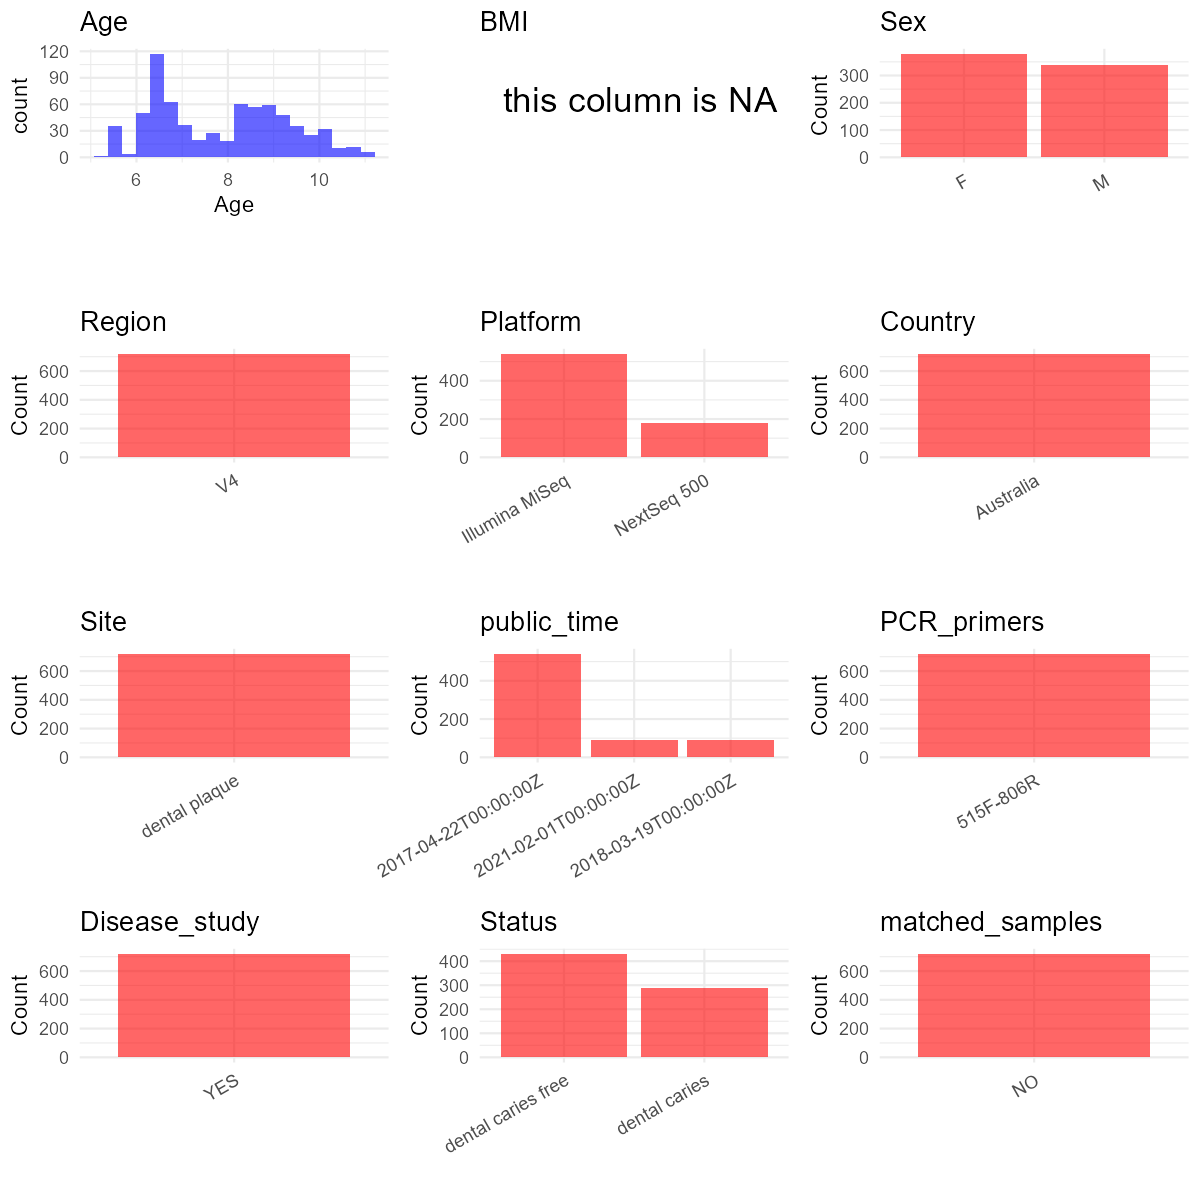
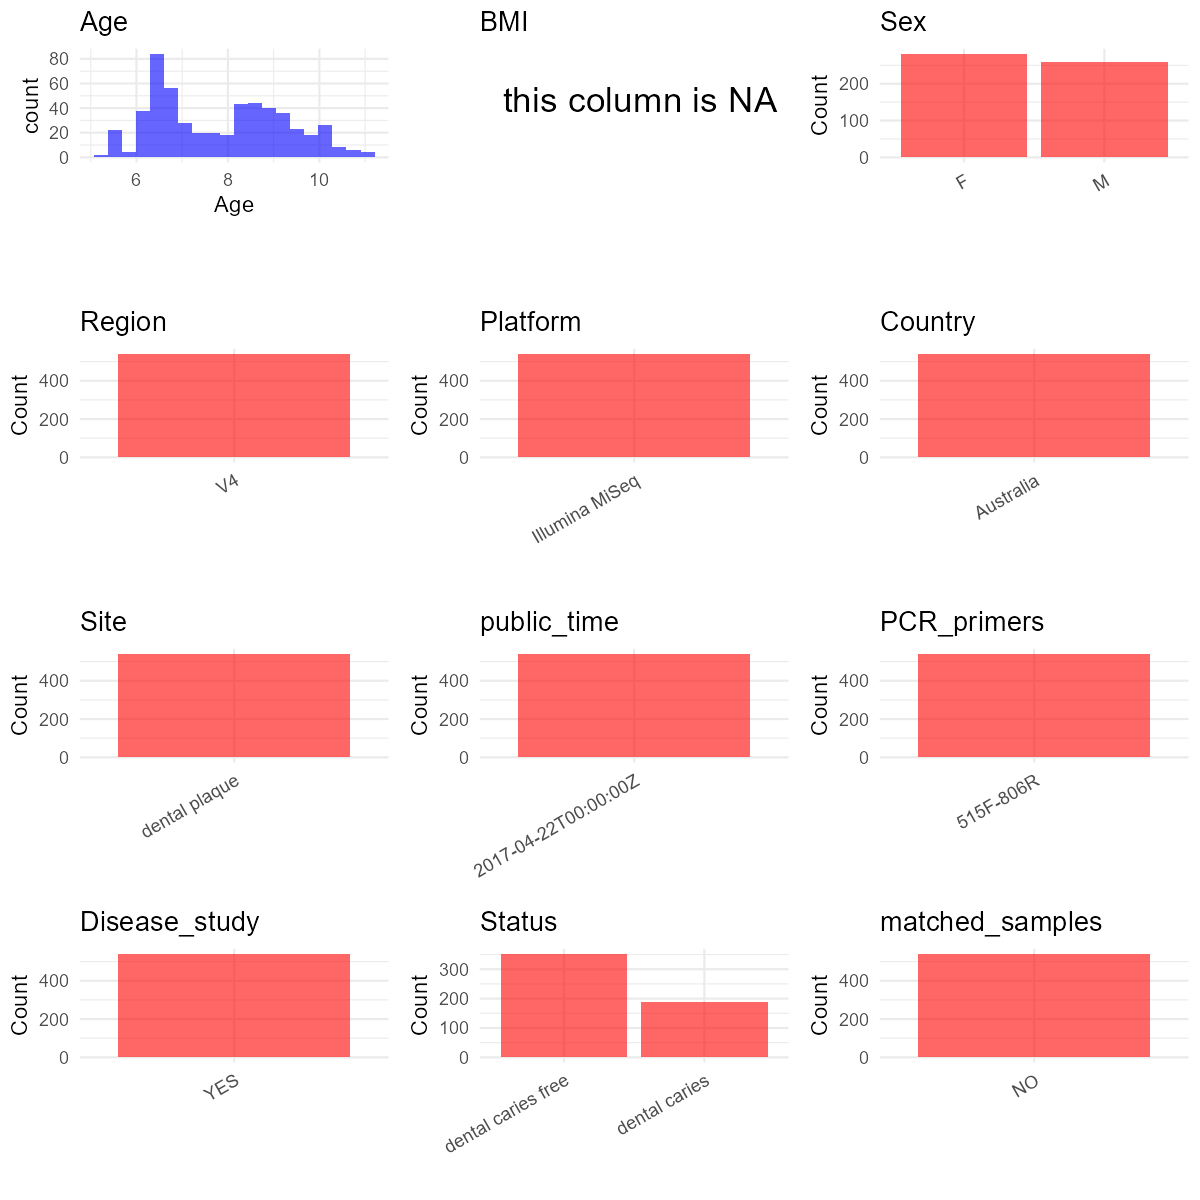
zyc_metadata_3

diff --git a/data/projects/PRJNA383868/metadata_curation.md b/data/projects/PRJNA383868/metadata_curation.md
@@ -15,55 +15,62 @@ project.
     initial_meta <- read.csv("SraRunTable.csv", header = TRUE) 
     head(initial_meta)
 
-    ##          Run Assay.Type AvgSpotLen    Bases  BioProject    BioSample                       BioSampleModel    Bytes               Center.Name
-    ## 1 SRR5467622   AMPLICON        502 12991258 PRJNA383868 SAMN06818328 MIMS.me,MIGS/MIMS/MIMARKS.human-oral  8392295 J. CRAIG VENTER INSTITUTE
-    ## 2 SRR5467623   AMPLICON        502 21643228 PRJNA383868 SAMN06818327 MIMS.me,MIGS/MIMS/MIMARKS.human-oral 13831072 J. CRAIG VENTER INSTITUTE
-    ## 3 SRR5467624   AMPLICON        502 21135706 PRJNA383868 SAMN06818326 MIMS.me,MIGS/MIMS/MIMARKS.human-oral 13491196 J. CRAIG VENTER INSTITUTE
-    ## 4 SRR5467625   AMPLICON        502  7511928 PRJNA383868 SAMN06818325 MIMS.me,MIGS/MIMS/MIMARKS.human-oral  4718731 J. CRAIG VENTER INSTITUTE
-    ## 5 SRR5467626   AMPLICON        502  6295582 PRJNA383868 SAMN06818324 MIMS.me,MIGS/MIMS/MIMARKS.human-oral  3970507 J. CRAIG VENTER INSTITUTE
-    ## 6 SRR5467627   AMPLICON        502 15582582 PRJNA383868 SAMN06818323 MIMS.me,MIGS/MIMS/MIMARKS.human-oral 10037418 J. CRAIG VENTER INSTITUTE
-    ##   chem_administration Collection_Date Consent DATASTORE.filetype DATASTORE.provider                     DATASTORE.region     env_biome
-    ## 1      not applicable      2014-10-27  public   fastq,run.zq,sra         gs,ncbi,s3 gs.us-east1,ncbi.public,s3.us-east-1 ENVO:01000418
-    ## 2      not applicable      2014-11-24  public   fastq,run.zq,sra         gs,ncbi,s3 gs.us-east1,ncbi.public,s3.us-east-1 ENVO:01000418
-    ## 3      not applicable      2014-11-24  public   fastq,run.zq,sra         gs,ncbi,s3 gs.us-east1,ncbi.public,s3.us-east-1 ENVO:01000418
-    ## 4      not applicable      2014-06-25  public   fastq,run.zq,sra         gs,ncbi,s3 gs.us-east1,ncbi.public,s3.us-east-1 ENVO:01000418
-    ## 5      not applicable      2014-06-25  public   fastq,run.zq,sra         gs,ncbi,s3 gs.us-east1,ncbi.public,s3.us-east-1 ENVO:01000418
-    ## 6      not applicable      2014-12-17  public   fastq,run.zq,sra         gs,ncbi,s3 gs.us-east1,ncbi.public,s3.us-east-1 ENVO:01000418
-    ##     env_feature  env_material Experiment geo_loc_name_country geo_loc_name_country_continent                geo_loc_name  Host_Age
-    ## 1 ENVO:00002034 ENVO:01000156 SRX2752978            Australia                        Oceania Australia: Melbourne\\, VIC 78 months
-    ## 2 ENVO:00002034 ENVO:01000156 SRX2752979            Australia                        Oceania Australia: Melbourne\\, VIC 79 months
-    ## 3 ENVO:00002034 ENVO:01000156 SRX2752980            Australia                        Oceania Australia: Melbourne\\, VIC 79 months
-    ## 4 ENVO:00002034 ENVO:01000156 SRX2752981            Australia                        Oceania Australia: Melbourne\\, VIC 77 months
-    ## 5 ENVO:00002034 ENVO:01000156 SRX2752982            Australia                        Oceania Australia: Melbourne\\, VIC 77 months
-    ## 6 ENVO:00002034 ENVO:01000156 SRX2752983            Australia                        Oceania Australia: Melbourne\\, VIC 80 months
-    ##         Host_disease host_family_relationship         HOST host_sex host_subject_id host_tissue_sampled     Instrument isolation_source
-    ## 1      dental caries           sibling 2028.2 Homo sapiens   female          2028.1       dental plaque Illumina MiSeq            teeth
-    ## 2      dental caries           sibling 2026.1 Homo sapiens   female          2026.2       dental plaque Illumina MiSeq            teeth
-    ## 3      dental caries           sibling 2026.2 Homo sapiens   female          2026.1       dental plaque Illumina MiSeq            teeth
-    ## 4 dental caries free           sibling 2023.1 Homo sapiens     male          2023.2       dental plaque Illumina MiSeq            teeth
-    ## 5 dental caries free           sibling 2023.2 Homo sapiens     male          2023.1       dental plaque Illumina MiSeq            teeth
-    ## 6 dental caries free           sibling 2020.1 Homo sapiens     male          2020.2       dental plaque Illumina MiSeq            teeth
-    ##                   lat_lon   Library.Name LibraryLayout LibrarySelection LibrarySource nose_mouth_teeth_throat_disord              Organism
-    ## 1 37.793742 S 144.94921 E CAR_2028.1_RD1        PAIRED              PCR   METAGENOMIC                 not applicable human oral metagenome
-    ## 2 37.793742 S 144.94921 E CAR_2026.2_RD1        PAIRED              PCR   METAGENOMIC                          cleft human oral metagenome
-    ## 3 37.793742 S 144.94921 E CAR_2026.1_RD1        PAIRED              PCR   METAGENOMIC                 not applicable human oral metagenome
-    ## 4 37.793742 S 144.94921 E CAR_2023.2_RD1        PAIRED              PCR   METAGENOMIC                 not applicable human oral metagenome
-    ## 5 37.793742 S 144.94921 E CAR_2023.1_RD1        PAIRED              PCR   METAGENOMIC                 not applicable human oral metagenome
-    ## 6 37.793742 S 144.94921 E CAR_2020.2_RD1        PAIRED              PCR   METAGENOMIC                 not applicable human oral metagenome
-    ##   Platform          ReleaseDate samp_collect_device    samp_store_temp samp_vol_we_dna_ext Sample.Name SRA.Study          create_date
-    ## 1 ILLUMINA 2017-04-22T00:00:00Z          oral swabs -80 degree Celsius              750 uL  2028.1_RD1 SRP104798 2017-04-22T00:07:00Z
-    ## 2 ILLUMINA 2017-04-22T00:00:00Z          oral swabs -80 degree Celsius              750 uL  2026.2_RD1 SRP104798 2017-04-22T00:07:00Z
-    ## 3 ILLUMINA 2017-04-22T00:00:00Z          oral swabs -80 degree Celsius              750 uL  2026.1_RD1 SRP104798 2017-04-22T00:07:00Z
-    ## 4 ILLUMINA 2017-04-22T00:00:00Z          oral swabs -80 degree Celsius              750 uL  2023.2_RD1 SRP104798 2017-04-22T00:06:00Z
-    ## 5 ILLUMINA 2017-04-22T00:00:00Z          oral swabs -80 degree Celsius              750 uL  2023.1_RD1 SRP104798 2017-04-22T00:07:00Z
-    ## 6 ILLUMINA 2017-04-22T00:00:00Z          oral swabs -80 degree Celsius              750 uL  2020.2_RD1 SRP104798 2017-04-22T00:07:00Z
-    ##   version  host_body_site host_body_product misc_param source_material_id
-    ## 1       1 right dentition                                                
-    ## 2       1 right dentition                                                
-    ## 3       1 right dentition                                                
-    ## 4       1 right dentition                                                
-    ## 5       1 right dentition                                                
-    ## 6       1 right dentition
+    ##          Run Assay.Type AvgSpotLen    Bases  BioProject    BioSample                       BioSampleModel    Bytes
+    ## 1 SRR5467622   AMPLICON        502 12991258 PRJNA383868 SAMN06818328 MIMS.me,MIGS/MIMS/MIMARKS.human-oral  8392295
+    ## 2 SRR5467623   AMPLICON        502 21643228 PRJNA383868 SAMN06818327 MIMS.me,MIGS/MIMS/MIMARKS.human-oral 13831072
+    ## 3 SRR5467624   AMPLICON        502 21135706 PRJNA383868 SAMN06818326 MIMS.me,MIGS/MIMS/MIMARKS.human-oral 13491196
+    ## 4 SRR5467625   AMPLICON        502  7511928 PRJNA383868 SAMN06818325 MIMS.me,MIGS/MIMS/MIMARKS.human-oral  4718731
+    ## 5 SRR5467626   AMPLICON        502  6295582 PRJNA383868 SAMN06818324 MIMS.me,MIGS/MIMS/MIMARKS.human-oral  3970507
+    ## 6 SRR5467627   AMPLICON        502 15582582 PRJNA383868 SAMN06818323 MIMS.me,MIGS/MIMS/MIMARKS.human-oral 10037418
+    ##                 Center.Name chem_administration Collection_Date Consent DATASTORE.filetype DATASTORE.provider
+    ## 1 J. CRAIG VENTER INSTITUTE      not applicable      2014-10-27  public   fastq,run.zq,sra         gs,ncbi,s3
+    ## 2 J. CRAIG VENTER INSTITUTE      not applicable      2014-11-24  public   fastq,run.zq,sra         gs,ncbi,s3
+    ## 3 J. CRAIG VENTER INSTITUTE      not applicable      2014-11-24  public   fastq,run.zq,sra         gs,ncbi,s3
+    ## 4 J. CRAIG VENTER INSTITUTE      not applicable      2014-06-25  public   fastq,run.zq,sra         gs,ncbi,s3
+    ## 5 J. CRAIG VENTER INSTITUTE      not applicable      2014-06-25  public   fastq,run.zq,sra         gs,ncbi,s3
+    ## 6 J. CRAIG VENTER INSTITUTE      not applicable      2014-12-17  public   fastq,run.zq,sra         gs,ncbi,s3
+    ##                       DATASTORE.region     env_biome   env_feature  env_material Experiment geo_loc_name_country
+    ## 1 gs.us-east1,ncbi.public,s3.us-east-1 ENVO:01000418 ENVO:00002034 ENVO:01000156 SRX2752978            Australia
+    ## 2 gs.us-east1,ncbi.public,s3.us-east-1 ENVO:01000418 ENVO:00002034 ENVO:01000156 SRX2752979            Australia
+    ## 3 gs.us-east1,ncbi.public,s3.us-east-1 ENVO:01000418 ENVO:00002034 ENVO:01000156 SRX2752980            Australia
+    ## 4 gs.us-east1,ncbi.public,s3.us-east-1 ENVO:01000418 ENVO:00002034 ENVO:01000156 SRX2752981            Australia
+    ## 5 gs.us-east1,ncbi.public,s3.us-east-1 ENVO:01000418 ENVO:00002034 ENVO:01000156 SRX2752982            Australia
+    ## 6 gs.us-east1,ncbi.public,s3.us-east-1 ENVO:01000418 ENVO:00002034 ENVO:01000156 SRX2752983            Australia
+    ##   geo_loc_name_country_continent                geo_loc_name  Host_Age       Host_disease host_family_relationship
+    ## 1                        Oceania Australia: Melbourne\\, VIC 78 months      dental caries           sibling 2028.2
+    ## 2                        Oceania Australia: Melbourne\\, VIC 79 months      dental caries           sibling 2026.1
+    ## 3                        Oceania Australia: Melbourne\\, VIC 79 months      dental caries           sibling 2026.2
+    ## 4                        Oceania Australia: Melbourne\\, VIC 77 months dental caries free           sibling 2023.1
+    ## 5                        Oceania Australia: Melbourne\\, VIC 77 months dental caries free           sibling 2023.2
+    ## 6                        Oceania Australia: Melbourne\\, VIC 80 months dental caries free           sibling 2020.1
+    ##           HOST host_sex host_subject_id host_tissue_sampled     Instrument isolation_source                 lat_lon
+    ## 1 Homo sapiens   female          2028.1       dental plaque Illumina MiSeq            teeth 37.793742 S 144.94921 E
+    ## 2 Homo sapiens   female          2026.2       dental plaque Illumina MiSeq            teeth 37.793742 S 144.94921 E
+    ## 3 Homo sapiens   female          2026.1       dental plaque Illumina MiSeq            teeth 37.793742 S 144.94921 E
+    ## 4 Homo sapiens     male          2023.2       dental plaque Illumina MiSeq            teeth 37.793742 S 144.94921 E
+    ## 5 Homo sapiens     male          2023.1       dental plaque Illumina MiSeq            teeth 37.793742 S 144.94921 E
+    ## 6 Homo sapiens     male          2020.2       dental plaque Illumina MiSeq            teeth 37.793742 S 144.94921 E
+    ##     Library.Name LibraryLayout LibrarySelection LibrarySource nose_mouth_teeth_throat_disord              Organism
+    ## 1 CAR_2028.1_RD1        PAIRED              PCR   METAGENOMIC                 not applicable human oral metagenome
+    ## 2 CAR_2026.2_RD1        PAIRED              PCR   METAGENOMIC                          cleft human oral metagenome
+    ## 3 CAR_2026.1_RD1        PAIRED              PCR   METAGENOMIC                 not applicable human oral metagenome
+    ## 4 CAR_2023.2_RD1        PAIRED              PCR   METAGENOMIC                 not applicable human oral metagenome
+    ## 5 CAR_2023.1_RD1        PAIRED              PCR   METAGENOMIC                 not applicable human oral metagenome
+    ## 6 CAR_2020.2_RD1        PAIRED              PCR   METAGENOMIC                 not applicable human oral metagenome
+    ##   Platform          ReleaseDate samp_collect_device    samp_store_temp samp_vol_we_dna_ext Sample.Name SRA.Study
+    ## 1 ILLUMINA 2017-04-22T00:00:00Z          oral swabs -80 degree Celsius              750 uL  2028.1_RD1 SRP104798
+    ## 2 ILLUMINA 2017-04-22T00:00:00Z          oral swabs -80 degree Celsius              750 uL  2026.2_RD1 SRP104798
+    ## 3 ILLUMINA 2017-04-22T00:00:00Z          oral swabs -80 degree Celsius              750 uL  2026.1_RD1 SRP104798
+    ## 4 ILLUMINA 2017-04-22T00:00:00Z          oral swabs -80 degree Celsius              750 uL  2023.2_RD1 SRP104798
+    ## 5 ILLUMINA 2017-04-22T00:00:00Z          oral swabs -80 degree Celsius              750 uL  2023.1_RD1 SRP104798
+    ## 6 ILLUMINA 2017-04-22T00:00:00Z          oral swabs -80 degree Celsius              750 uL  2020.2_RD1 SRP104798
+    ##            create_date version  host_body_site host_body_product misc_param source_material_id
+    ## 1 2017-04-22T00:07:00Z       1 right dentition                                                
+    ## 2 2017-04-22T00:07:00Z       1 right dentition                                                
+    ## 3 2017-04-22T00:07:00Z       1 right dentition                                                
+    ## 4 2017-04-22T00:06:00Z       1 right dentition                                                
+    ## 5 2017-04-22T00:07:00Z       1 right dentition                                                
+    ## 6 2017-04-22T00:07:00Z       1 right dentition
 
 # Step 2: Create a Uniform Metadata Template
 
@@ -93,6 +100,7 @@ The uniform metadata should include the following columns:
 <!-- -->
 
     metadata <- data.frame(
+      assaytype = initial_meta$Assay.Type,
       BioProject = initial_meta$BioProject,
       Run = initial_meta$Run,
       sample_name = initial_meta$Library.Name,
@@ -114,7 +122,8 @@ The uniform metadata should include the following columns:
 Some information (e.g. PCR primers, study title, disease status) must be
 manually extracted from the publication and added to the metadata.
 
-     metadata <- metadata %>%
+    metadata <- metadata %>%filter(assaytype == "AMPLICON")
+    metadata <- metadata %>%
       mutate(Sex = recode(Sex, "female" = "F", "male" = "M"))
     metadata <- metadata %>%mutate(Age = as.numeric(sapply(str_split(Age, " "), function(x) head(x, 1))))%>%mutate(Age = Age/12)
 
@@ -124,30 +133,37 @@ manually extracted from the publication and added to the metadata.
 
     head(metadata)
 
-    ##    BioProject        Run    sample_name      Age BMI Sex Region       Platform   Country          Site          public_time matched_samples
-    ## 1 PRJNA383868 SRR5467622 CAR_2028.1_RD1 6.500000  NA   F     V4 Illumina MiSeq Australia dental plaque 2017-04-22T00:00:00Z              NO
-    ## 2 PRJNA383868 SRR5467623 CAR_2026.2_RD1 6.583333  NA   F     V4 Illumina MiSeq Australia dental plaque 2017-04-22T00:00:00Z              NO
-    ## 3 PRJNA383868 SRR5467624 CAR_2026.1_RD1 6.583333  NA   F     V4 Illumina MiSeq Australia dental plaque 2017-04-22T00:00:00Z              NO
-    ## 4 PRJNA383868 SRR5467625 CAR_2023.2_RD1 6.416667  NA   M     V4 Illumina MiSeq Australia dental plaque 2017-04-22T00:00:00Z              NO
-    ## 5 PRJNA383868 SRR5467626 CAR_2023.1_RD1 6.416667  NA   M     V4 Illumina MiSeq Australia dental plaque 2017-04-22T00:00:00Z              NO
-    ## 6 PRJNA383868 SRR5467627 CAR_2020.2_RD1 6.666667  NA   M     V4 Illumina MiSeq Australia dental plaque 2017-04-22T00:00:00Z              NO
-    ##               Status                                                             title Disease_study PCR_primers
-    ## 1      dental caries Host Genetic Control of the Oral Microbiome in Health and Disease           YES   515F-806R
-    ## 2      dental caries Host Genetic Control of the Oral Microbiome in Health and Disease           YES   515F-806R
-    ## 3      dental caries Host Genetic Control of the Oral Microbiome in Health and Disease           YES   515F-806R
-    ## 4 dental caries free Host Genetic Control of the Oral Microbiome in Health and Disease           YES   515F-806R
-    ## 5 dental caries free Host Genetic Control of the Oral Microbiome in Health and Disease           YES   515F-806R
-    ## 6 dental caries free Host Genetic Control of the Oral Microbiome in Health and Disease           YES   515F-806R
+    ##   assaytype  BioProject        Run    sample_name      Age BMI Sex Region       Platform   Country          Site
+    ## 1  AMPLICON PRJNA383868 SRR5467622 CAR_2028.1_RD1 6.500000  NA   F     V4 Illumina MiSeq Australia dental plaque
+    ## 2  AMPLICON PRJNA383868 SRR5467623 CAR_2026.2_RD1 6.583333  NA   F     V4 Illumina MiSeq Australia dental plaque
+    ## 3  AMPLICON PRJNA383868 SRR5467624 CAR_2026.1_RD1 6.583333  NA   F     V4 Illumina MiSeq Australia dental plaque
+    ## 4  AMPLICON PRJNA383868 SRR5467625 CAR_2023.2_RD1 6.416667  NA   M     V4 Illumina MiSeq Australia dental plaque
+    ## 5  AMPLICON PRJNA383868 SRR5467626 CAR_2023.1_RD1 6.416667  NA   M     V4 Illumina MiSeq Australia dental plaque
+    ## 6  AMPLICON PRJNA383868 SRR5467627 CAR_2020.2_RD1 6.666667  NA   M     V4 Illumina MiSeq Australia dental plaque
+    ##            public_time matched_samples             Status
+    ## 1 2017-04-22T00:00:00Z              NO      dental caries
+    ## 2 2017-04-22T00:00:00Z              NO      dental caries
+    ## 3 2017-04-22T00:00:00Z              NO      dental caries
+    ## 4 2017-04-22T00:00:00Z              NO dental caries free
+    ## 5 2017-04-22T00:00:00Z              NO dental caries free
+    ## 6 2017-04-22T00:00:00Z              NO dental caries free
+    ##                                                               title Disease_study PCR_primers
+    ## 1 Host Genetic Control of the Oral Microbiome in Health and Disease           YES   515F-806R
+    ## 2 Host Genetic Control of the Oral Microbiome in Health and Disease           YES   515F-806R
+    ## 3 Host Genetic Control of the Oral Microbiome in Health and Disease           YES   515F-806R
+    ## 4 Host Genetic Control of the Oral Microbiome in Health and Disease           YES   515F-806R
+    ## 5 Host Genetic Control of the Oral Microbiome in Health and Disease           YES   515F-806R
+    ## 6 Host Genetic Control of the Oral Microbiome in Health and Disease           YES   515F-806R
 
 # Step 4: Summarize and Validate the Metadata
 
     print(paste("Number of unique runs:", length(unique(metadata$Run))))
 
-    ## [1] "Number of unique runs: 719"
+    ## [1] "Number of unique runs: 540"
 
     print(paste("Number of unique sample names:", length(unique(metadata$sample_name))))
 
-    ## [1] "Number of unique sample names: 719"
+    ## [1] "Number of unique sample names: 540"
 
 # Step 5: Visualize the Metadata
 
